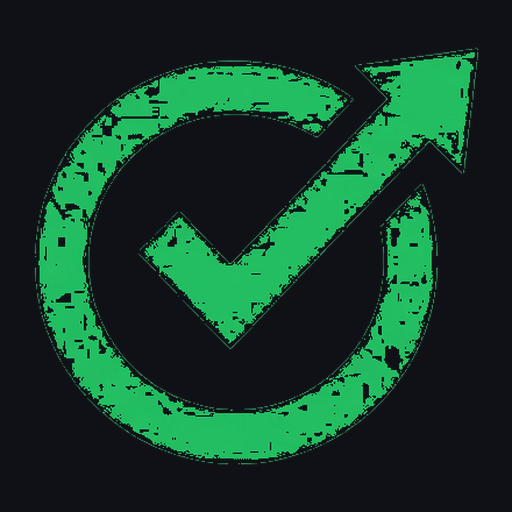
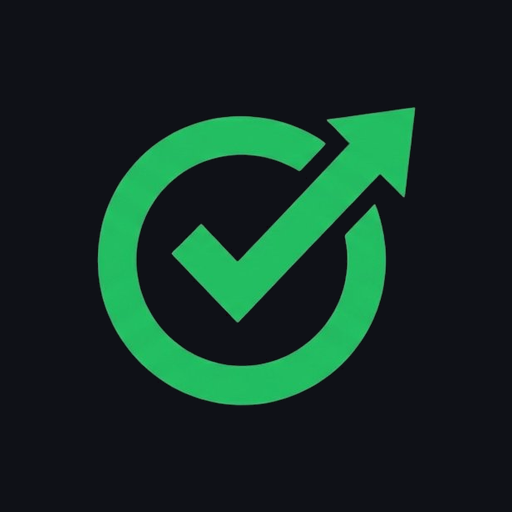
Add files via upload

diff --git a/index.html b/index.html
@@ -691,8 +691,9 @@ document.getElementById('activationInput').addEventListener('keydown',e=>{if(e.k
 
 function showApp(){
   document.getElementById('activationScreen').style.display='none';
-  // Se já instalou antes, vai direto pro app
-  if(localStorage.getItem('fc_install_shown')){
+  // Se já viu a tela OU se já tá rodando como PWA instalado, vai direto
+  const isInstalled = window.matchMedia('(display-mode: standalone)').matches || window.navigator.standalone;
+  if(localStorage.getItem('fc_install_shown') || isInstalled){
     document.getElementById('appShell').style.display='flex';
     load();renderAll();renderInstallBanner();
   } else {